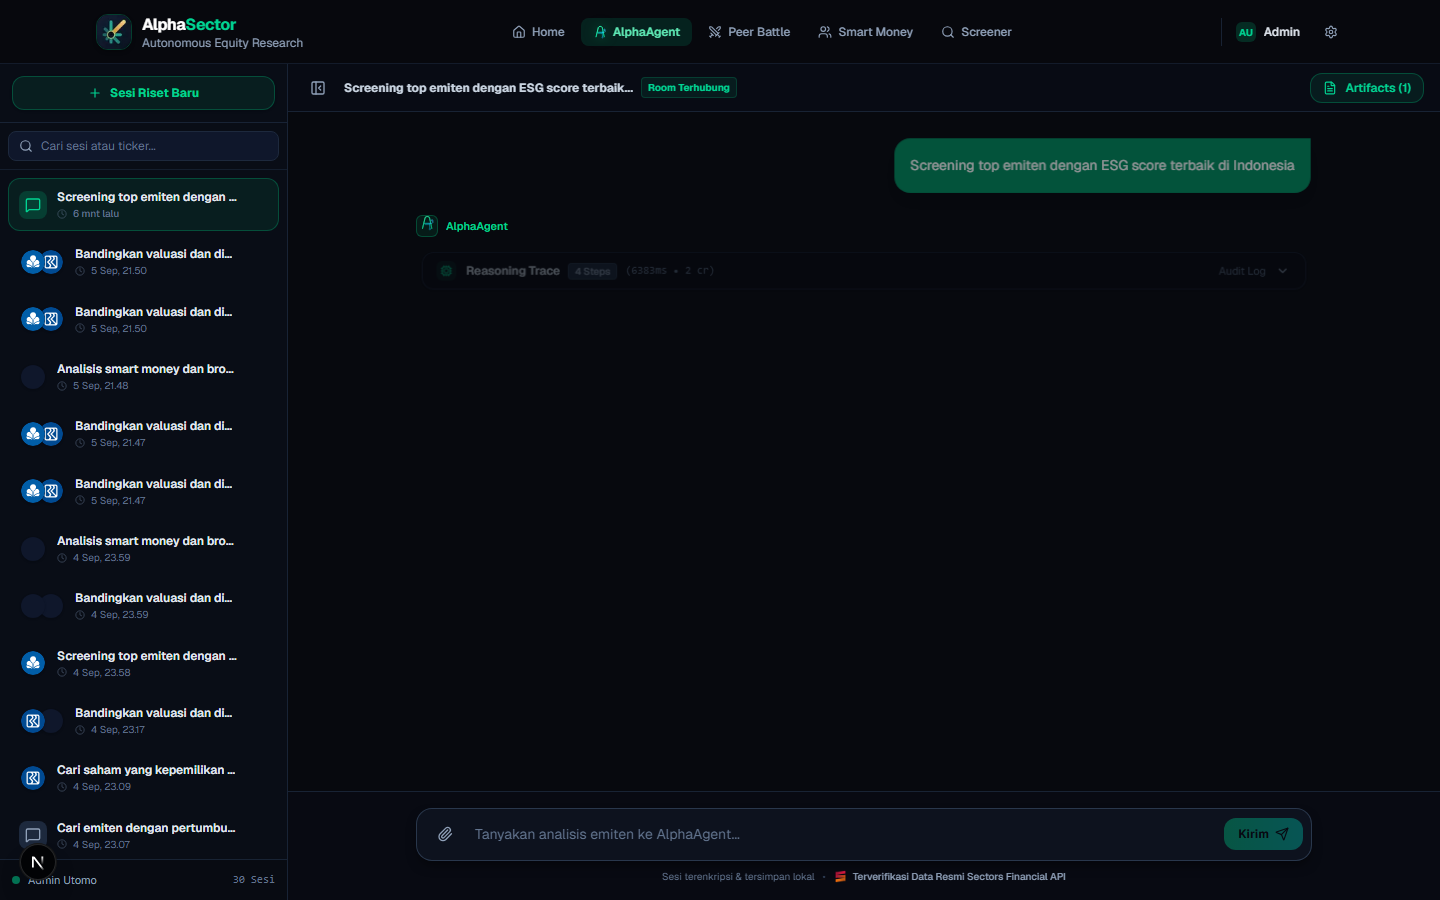
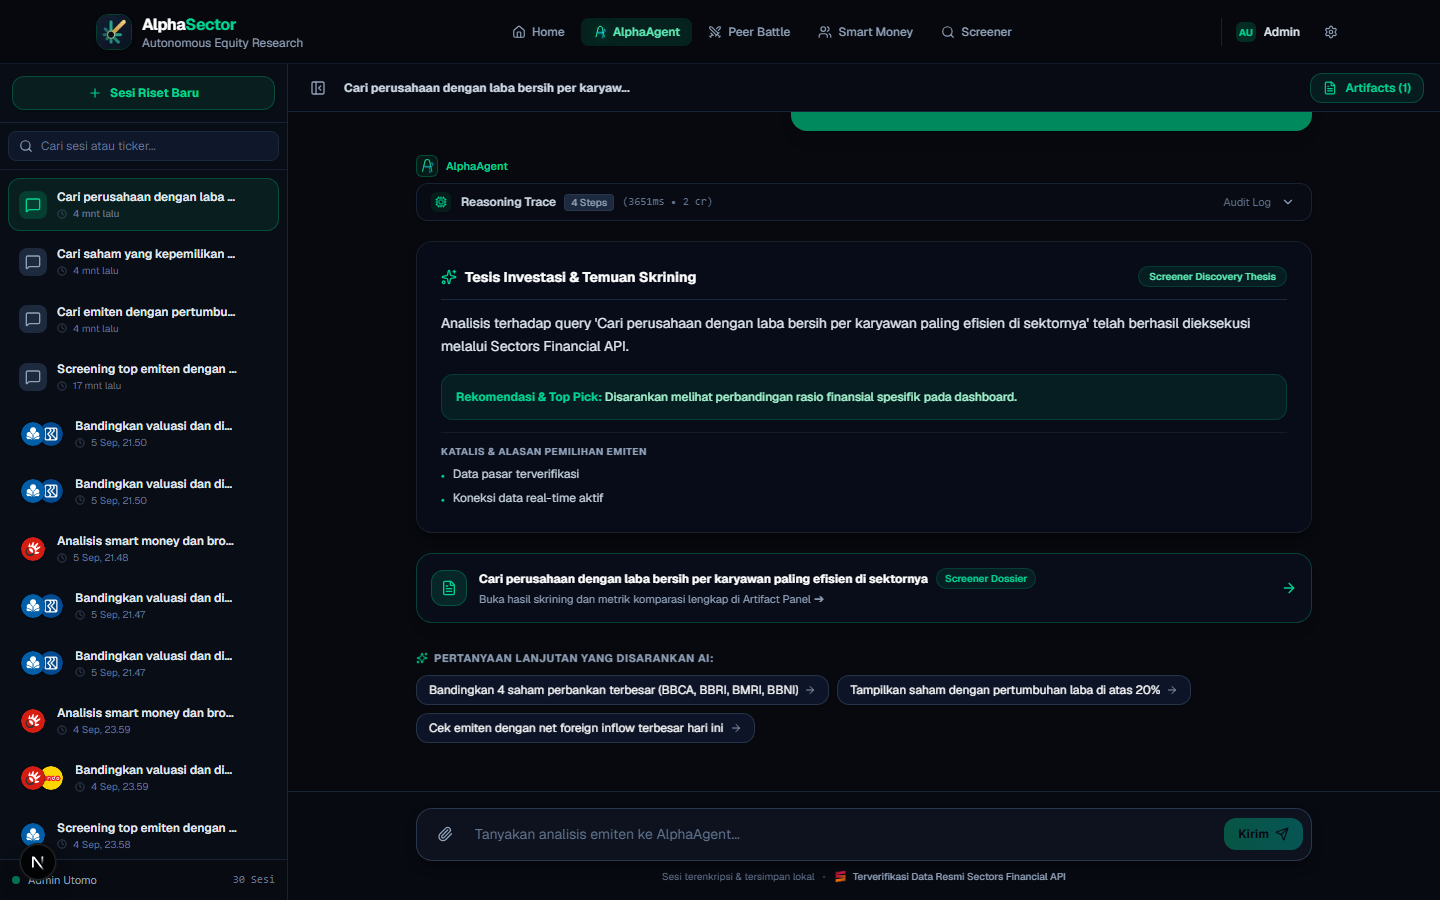
style(copilot): remove redundant Room Terhubung badge from session header

diff --git a/frontend/app/copilot/page.tsx b/frontend/app/copilot/page.tsx
@@ -256,11 +256,6 @@ function CopilotWorkspace() {
                         : 'Sesi Riset Baru'
                       }
                     </span>
-                    {activeSessionId && (
-                      <span className="px-1.5 py-0.5 rounded bg-emerald-500/10 border border-emerald-500/20 text-emerald-400 text-[10px] font-bold">
-                        Room Terhubung
-                      </span>
-                    )}
                   </>
                 )}
               </div>
